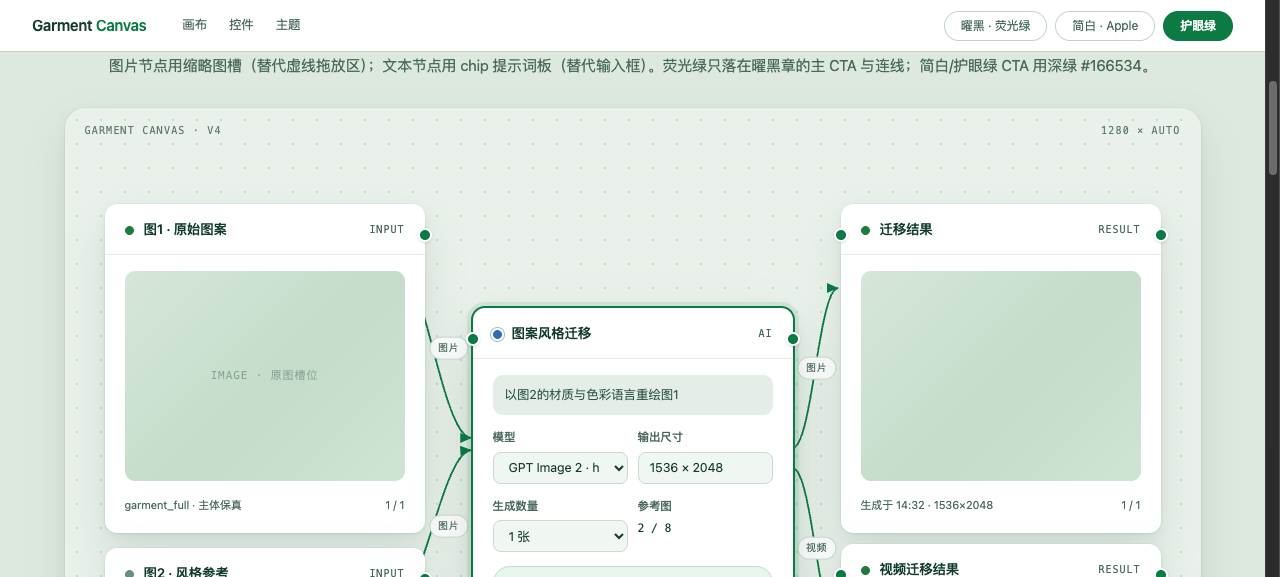
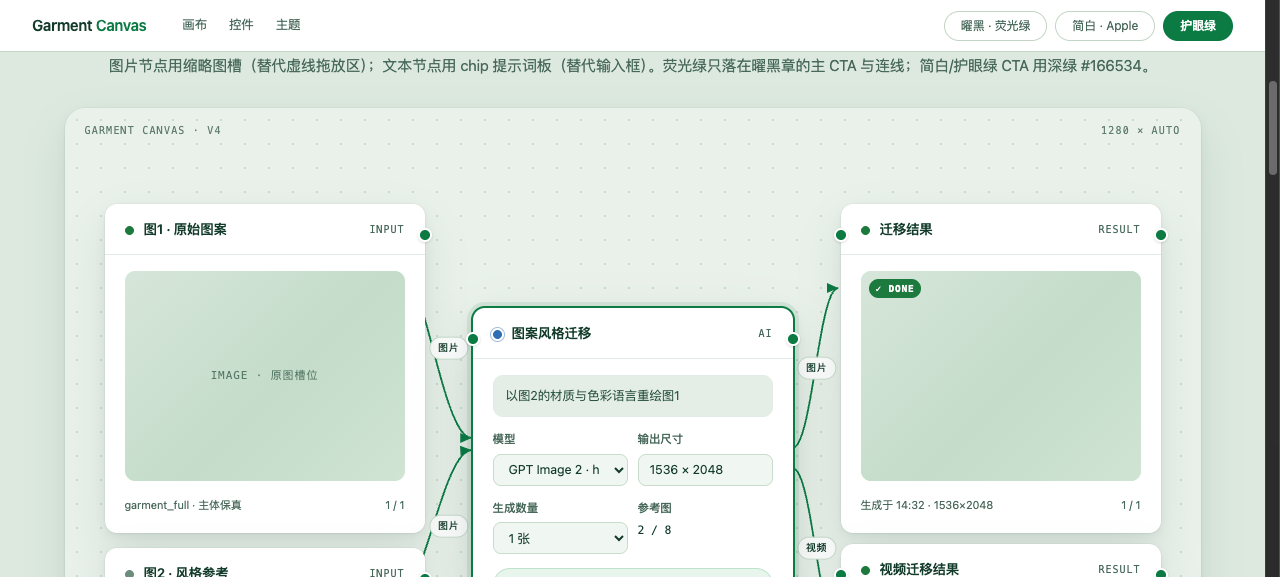
docs(design): v4 原型与终版截图的最新调整（designer, R-35 期间）

diff --git a/docs/design/2026-09-17-ui-audit/prototype-v4.html b/docs/design/2026-09-17-ui-audit/prototype-v4.html
@@ -22,7 +22,7 @@
   --node-shadow:0 0 0 0.5px rgba(0,0,0,.5), 0 1px 2px rgba(0,0,0,.4), 0 4px 10px rgba(0,0,0,.36), 0 20px 44px rgba(0,0,0,.5);
   --node-shadow-lift:0 0 0 0.5px rgba(0,0,0,.5), 0 2px 4px rgba(0,0,0,.42), 0 8px 18px rgba(0,0,0,.4), 0 28px 60px rgba(0,0,0,.56);
   --edge:#B7F35A;
-  --st-idle:#8e8e93; --st-queued:#eab308; --st-running:#60a5fa; --st-retry:#fb923c;
+  --st-idle:#8e8e93; --st-queued:#2dd4bf; --st-running:#60a5fa; --st-retry:#fb923c;
   --st-success:#34d399; --st-error:#f87171; --st-unknown:#a78bfa;
   --board-bg:#101116; --board-ink:#e8eaee; --board-muted:#9ba1a9; --board-line:#2a2d34;
   --mono:"SF Mono",ui-monospace,Menlo,monospace;
@@ -171,8 +171,8 @@ section{margin-top:80px}
 
 /* 连线语义标签 */
 .edge-label{position:absolute;transform:translate(-50%,-50%);
-  background:var(--node-card);color:var(--node-muted);
-  font-family:var(--mono);font-size:10px;letter-spacing:.06em;
+  font-size:10px;font-family:var(--mono);letter-spacing:.06em;font-weight:500;
+  color:var(--board-ink);background:var(--gc-panel);
   padding:3px 8px;border-radius:980px;border:1px solid var(--gc-border);
   pointer-events:none;white-space:nowrap}
 
@@ -183,16 +183,17 @@ section{margin-top:80px}
 /* 可灵节点语言:chip 提示词板(文本节点) + 缩略图槽(图片节点) */
 .prompt-chip{
   background:var(--node-chip);color:var(--node-chip-text);
+  border:1px solid var(--node-divider);
   border-radius:10px;padding:10px 12px;font-size:12.5px;line-height:1.55;letter-spacing:-0.1px;
 }
 .thumb{
   width:100%;aspect-ratio:4/3;border-radius:10px;overflow:hidden;position:relative;
   background:linear-gradient(135deg,#dbe7ef 0%,#c3d6e4 45%,#b7cfdc 100%);
   display:flex;align-items:center;justify-content:center;
-  color:rgba(0,0,0,.32);font-size:11px;font-family:var(--mono);letter-spacing:.08em;
+  color:rgba(0,0,0,.62);font-size:11px;font-family:var(--mono);letter-spacing:.08em;
 }
-[data-theme="obsidian"] .thumb{background:linear-gradient(135deg,#262b33 0%,#1d2127 60%,#232830 100%);color:rgba(255,255,255,.3)}
-[data-theme="eye"] .thumb{background:linear-gradient(135deg,#d6e6da 0%,#c4dcc9 55%,#d0e4d4 100%);color:rgba(18,59,43,.35)}
+[data-theme="obsidian"] .thumb{background:linear-gradient(135deg,#262b33 0%,#1d2127 60%,#232830 100%);color:rgba(255,255,255,.55)}
+[data-theme="eye"] .thumb{background:linear-gradient(135deg,#d6e6da 0%,#c4dcc9 55%,#d0e4d4 100%);color:rgba(18,59,43,.62)}
 .thumb.small{aspect-ratio:16/9;height:64px}
 
 /* ---- 可灵结果过渡动画:Reveal(图片/视频通用) ---- */
@@ -295,6 +296,12 @@ section{margin-top:80px}
 }
 [data-theme="obsidian"] .result-badge.running{
   background:#1f2b1a;color:#B7F35A;
+}
+.result-badge.done{
+  background:var(--st-success);color:#fff;
+}
+[data-theme="obsidian"] .result-badge.done{
+  background:#1a2e1a;color:#4ade80;
 }
 
 /* 减少动态 */
@@ -486,6 +493,7 @@ input[type=range]{accent-color:var(--gc-accent);width:160px}
         <div class="thumb" style="position:relative;">
           <div class="result-reveal"></div>
           <div class="result-done-ring"></div>
+          <div class="result-badge done">✓ DONE</div>
           <span>IMAGE · 结果槽位</span>
         </div>
         <div class="node-foot"><span class="hint">生成于 14:32 · 1536×2048</span><span class="hint">1 / 1</span></div>
